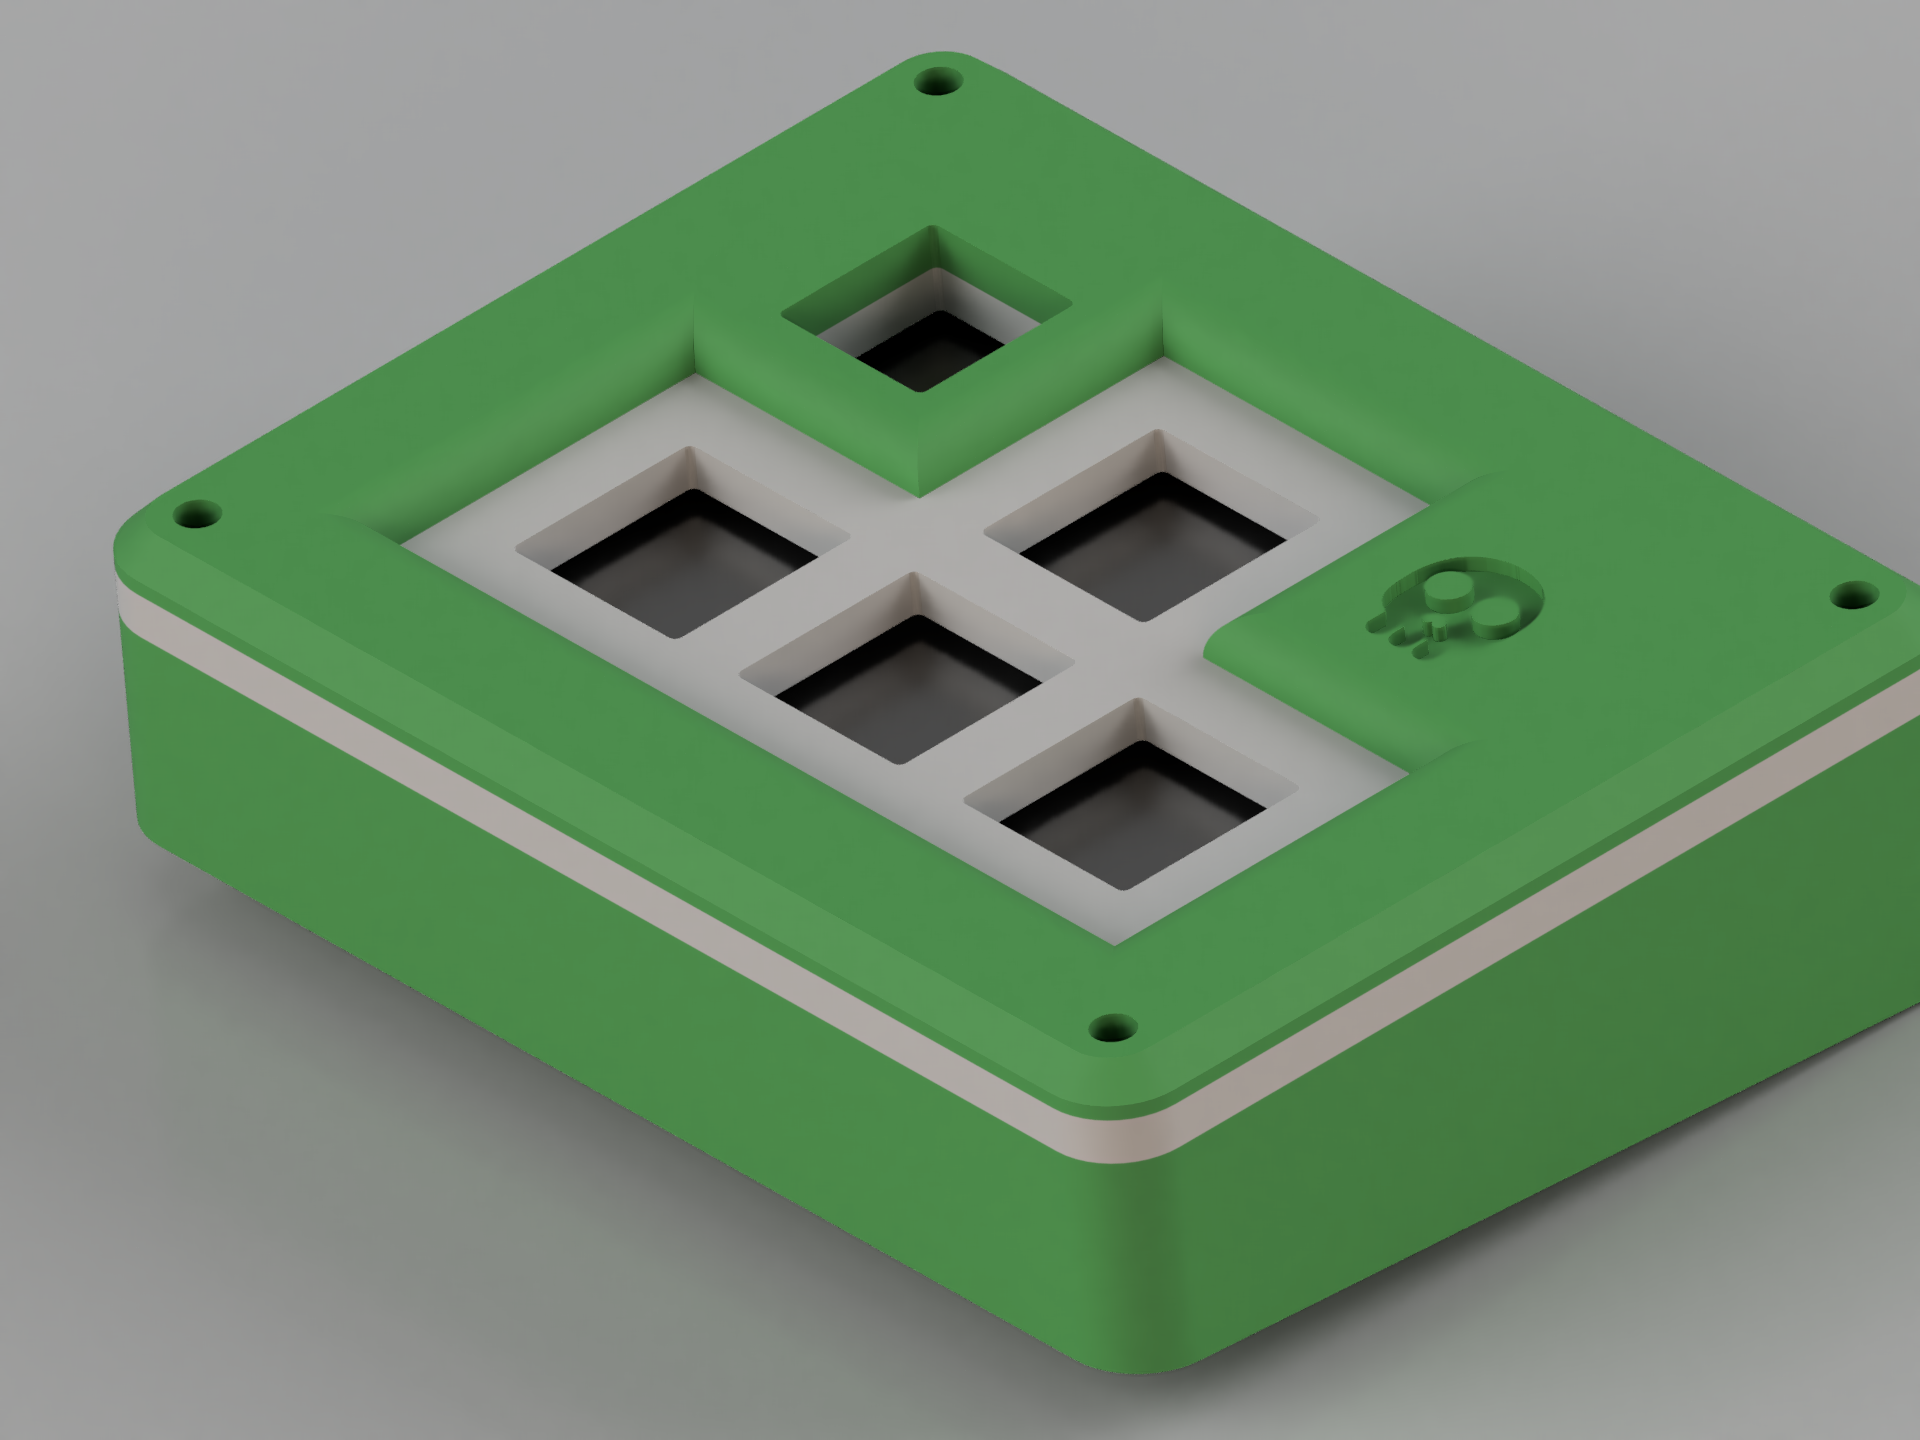
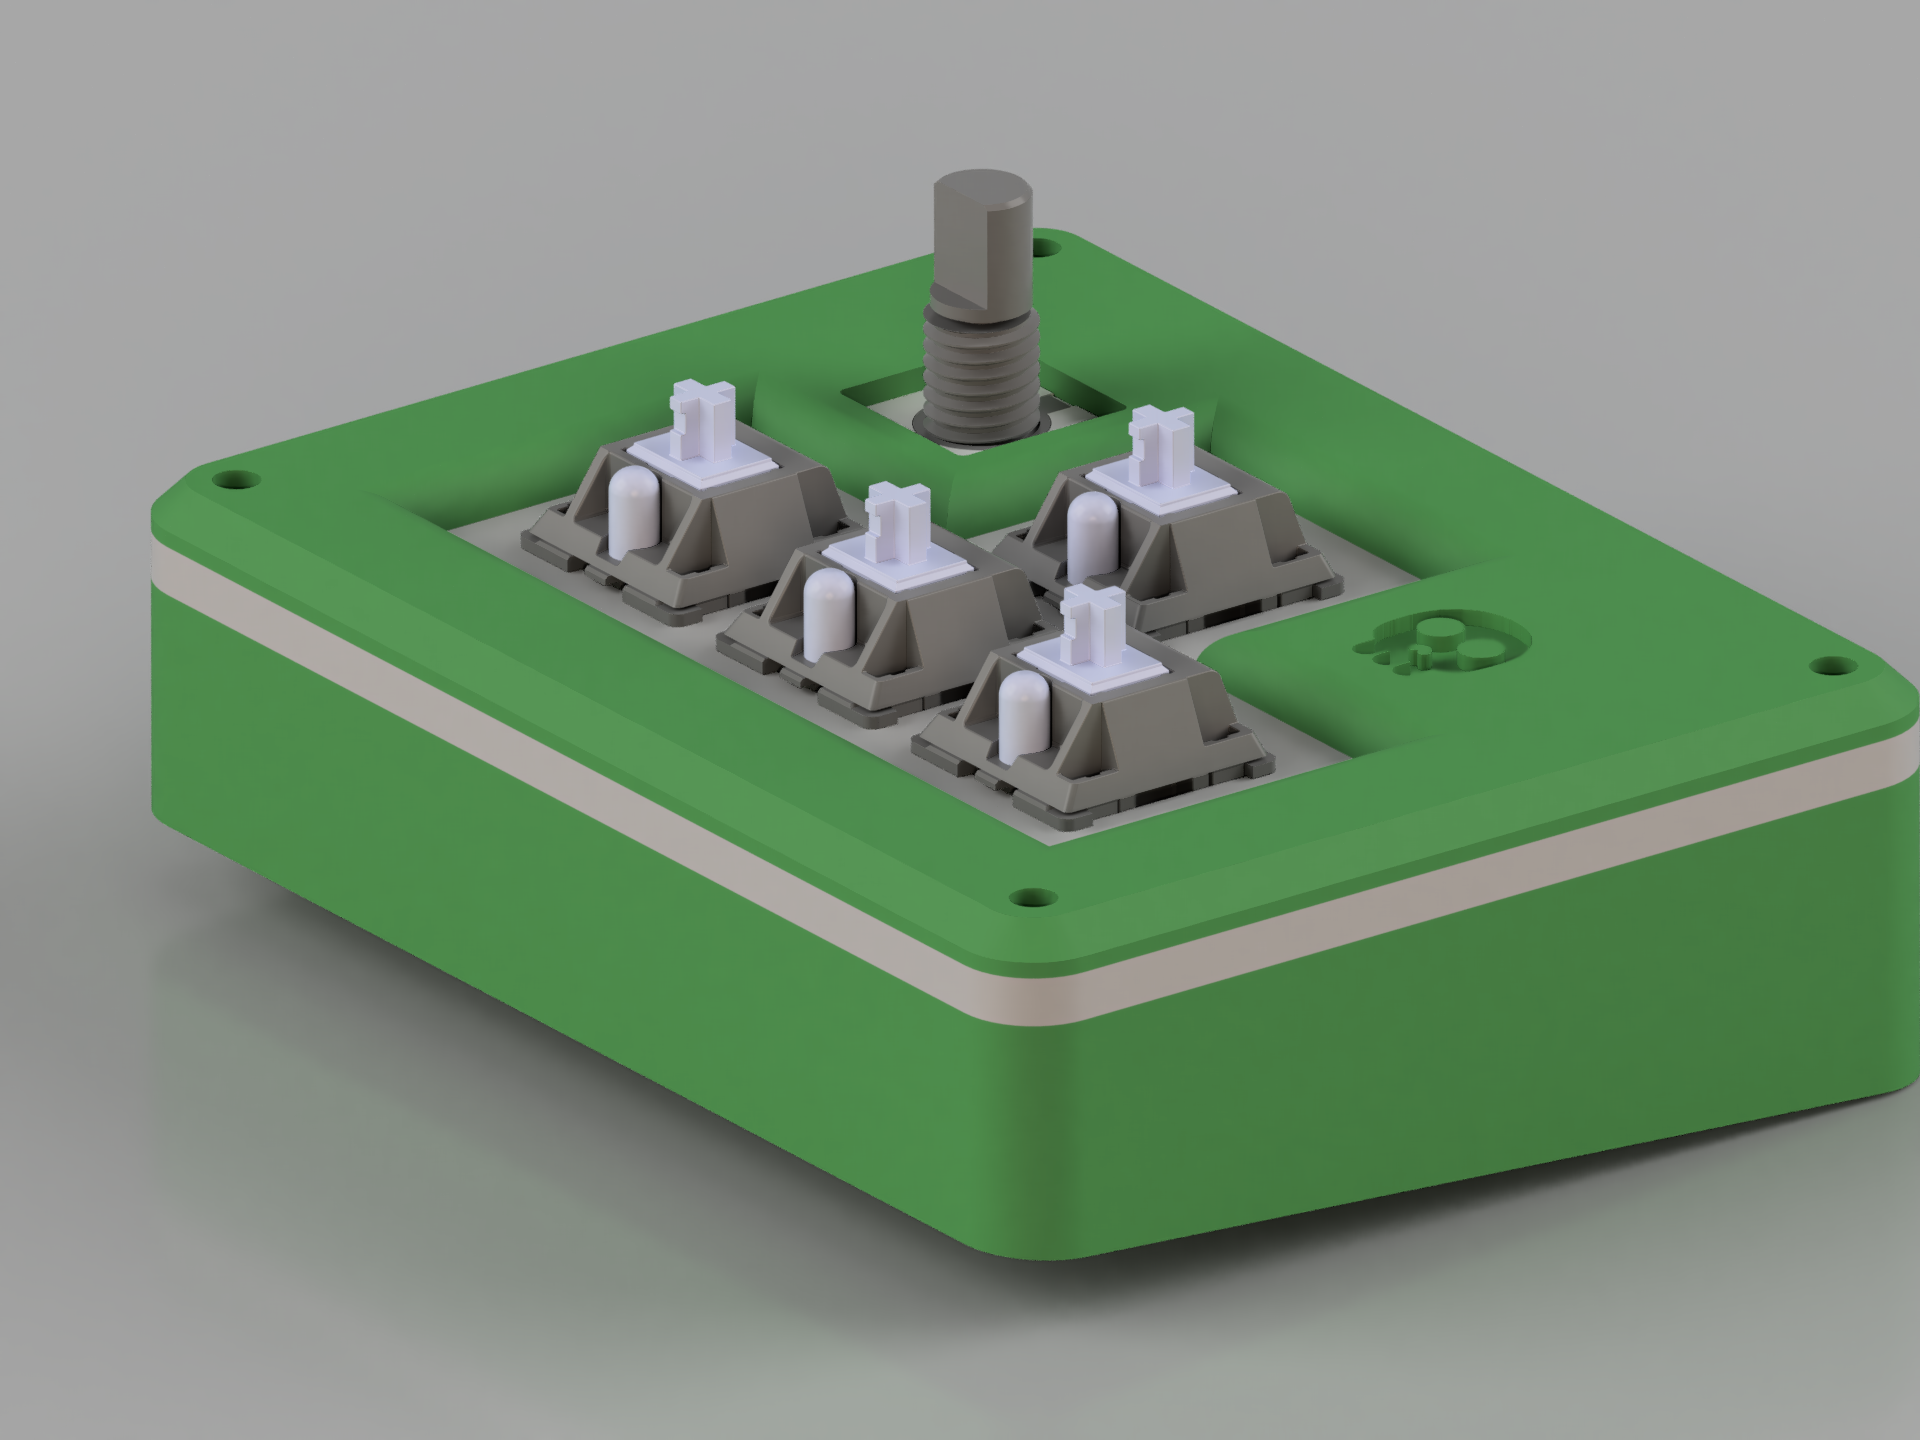
Edited Fusion Render

diff --git a/README.md b/README.md
@@ -27,11 +27,11 @@ Schematic
 
 Layout
 
-![Layout of PCB](assets/Layout.gif)
+![Layout of PCB](assets/Layout.png)
 
 PCB
 
-![Kicad's 3d viewer](assets/3d_Viewer.png)
+![Kicad's 3d viewer](assets/3d_Viewer.gif)
 
 
 ## Firmware Overview